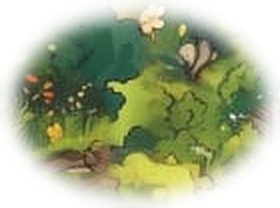
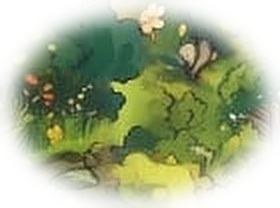
Trilha: corrige retângulos claros em volta dos bichos (luz isolada por camada), repara o fundo (cervo pintado e emendas), imagens de objetos com fallback

Changed region(s): [[0.0571, 0.375, 0.4, 0.9231], [0.3714, 0.375, 0.4, 0.4327], [0.8571, 0.5769, 0.8857, 0.6058]]

diff --git a/src/lib/trailGrade.ts b/src/lib/trailGrade.ts
@@ -26,7 +26,18 @@ const sizeOf = (img: Src) => ({
   h: (img as HTMLImageElement).naturalHeight || (img.height as number),
 });
 
-/** Devolve a imagem com o clima aplicado (ou a própria imagem, no sol). O resultado preserva a transparência. */
+const parseRgba = (css: string): [number, number, number, number] => {
+  const m = css.match(/rgba?\(\s*([\d.]+)\s*,\s*([\d.]+)\s*,\s*([\d.]+)\s*(?:,\s*([\d.]+))?\s*\)/);
+  return m ? [Number(m[1]), Number(m[2]), Number(m[3]), m[4] === undefined ? 1 : Number(m[4])] : [0, 0, 0, 0];
+};
+
+/**
+ * Devolve a imagem com o clima aplicado (ou a própria imagem, no sol).
+ *
+ * O ajuste é feito PIXEL A PIXEL e só nos canais de cor: o canal alfa (transparência) nunca é tocado.
+ * (Misturar com operações de composição do canvas deixava um retângulo esbranquiçado ao redor dos bichos e
+ * dos retalhos de folhagem, que têm fundo transparente.)
+ */
 export function gradeImage(img: Src, weather: TrailWeather): CanvasImageSource {
   const g = GRADES[weather];
   if (!g) return img;
@@ -34,34 +45,34 @@ export function gradeImage(img: Src, weather: TrailWeather): CanvasImageSource {
   const c = document.createElement("canvas");
   c.width = w;
   c.height = h;
-  const ctx = c.getContext("2d");
+  const ctx = c.getContext("2d", { willReadFrequently: true }) as CanvasRenderingContext2D | null;
   if (!ctx) return img;
   ctx.drawImage(img, 0, 0);
-  // dessatura
-  ctx.save();
-  ctx.globalCompositeOperation = "saturation";
-  ctx.globalAlpha = g.desaturate;
-  ctx.fillStyle = "hsl(0, 0%, 50%)";
-  ctx.fillRect(0, 0, w, h);
-  ctx.restore();
-  // restaura a transparência original (a mistura acima pintaria também as áreas vazias)
-  ctx.save();
-  ctx.globalCompositeOperation = "destination-in";
-  ctx.drawImage(img, 0, 0);
-  ctx.restore();
-  // brilho + névoa/geada, só onde há pixels
-  ctx.save();
-  ctx.globalCompositeOperation = "source-atop";
-  if (g.darken > 0) {
-    ctx.fillStyle = `rgba(0, 0, 0, ${g.darken})`;
-    ctx.fillRect(0, 0, w, h);
+  const data = ctx.getImageData(0, 0, w, h);
+  const px = data.data;
+  const [tr, tg, tb, ta] = parseRgba(g.tint);
+  const dark = 1 - g.darken;
+  for (let i = 0; i < px.length; i += 4) {
+    if (px[i + 3] === 0) continue;
+    let r = px[i];
+    let gg = px[i + 1];
+    let b = px[i + 2];
+    const gray = 0.299 * r + 0.587 * gg + 0.114 * b;
+    r += (gray - r) * g.desaturate;
+    gg += (gray - gg) * g.desaturate;
+    b += (gray - b) * g.desaturate;
+    r *= dark;
+    gg *= dark;
+    b *= dark;
+    if (g.lighten > 0) {
+      r += (255 - r) * g.lighten;
+      gg += (255 - gg) * g.lighten;
+      b += (255 - b) * g.lighten;
+    }
+    px[i] = r * (1 - ta) + tr * ta;
+    px[i + 1] = gg * (1 - ta) + tg * ta;
+    px[i + 2] = b * (1 - ta) + tb * ta;
   }
-  if (g.lighten > 0) {
-    ctx.fillStyle = `rgba(255, 255, 255, ${g.lighten})`;
-    ctx.fillRect(0, 0, w, h);
-  }
-  ctx.fillStyle = g.tint;
-  ctx.fillRect(0, 0, w, h);
-  ctx.restore();
+  ctx.putImageData(data, 0, 0);
   return c;
 }

diff --git a/src/lib/trailFaunaDraw.ts b/src/lib/trailFaunaDraw.ts
@@ -775,6 +775,9 @@ function applyEnvironmentalRimLighting(
   ctx.restore();
 }
 
+/** Camada transparente reutilizada para desenhar cada bicho isoladamente. */
+let critterLayer: HTMLCanvasElement | null = null;
+
 function drawCritter(ctx: CanvasRenderingContext2D, c: Critter, assets: FaunaAssets, weather: TrailWeather, t: number) {
   const sp = c.spec;
   const base = assets.sprites[sp.id];
@@ -897,6 +900,35 @@ function drawCritter(ctx: CanvasRenderingContext2D, c: Critter, assets: FaunaAss
     drawRealisticGroundShadow(ctx, c.x, c.y, w, h, lift, weather, facing);
   }
 
+  // O bicho é desenhado numa CAMADA TRANSPARENTE ISOLADA: assim a luz (luar, sol, umidade) só afeta os
+  // pixels do animal. Aplicada direto no mapa, a mistura "source-atop" pintaria um retângulo em volta dele.
+  const mainCtx = ctx;
+  let layerOut: { cv: HTMLCanvasElement; E: number } | null = null;
+  {
+    const M = mainCtx.getTransform();
+    const sc = Math.hypot(M.a, M.b) || 1;
+    const E = Math.max(h * 1.6, w * 1.5) + 34 + Math.max(0, lift);
+    const px = Math.ceil(2 * E * sc);
+    if (px >= 8 && px <= 1500 && typeof document !== "undefined") {
+      if (!critterLayer) critterLayer = document.createElement("canvas");
+      const lcv = critterLayer;
+      if (lcv.width < px || lcv.height < px) {
+        lcv.width = px;
+        lcv.height = px;
+      }
+      const lctx = lcv.getContext("2d");
+      if (lctx) {
+        lctx.setTransform(1, 0, 0, 1, 0, 0);
+        lctx.globalAlpha = 1;
+        lctx.globalCompositeOperation = "source-over";
+        lctx.clearRect(0, 0, lcv.width, lcv.height);
+        lctx.setTransform(sc, 0, 0, sc, (E - c.x) * sc, (E - c.y) * sc);
+        ctx = lctx;
+        layerOut = { cv: lcv, E };
+      }
+    }
+  }
+
   ctx.save();
   ctx.translate(c.x + jx, c.y - lift);
   // O corpo acompanha a inclinação suave do terreno
@@ -917,6 +949,12 @@ function drawCritter(ctx: CanvasRenderingContext2D, c: Critter, assets: FaunaAss
   // Aplica iluminação de borda e sombra ambiental para harmonizar o bicho com a mata
   applyEnvironmentalRimLighting(ctx, w, h, weather);
   ctx.restore();
+  if (layerOut) {
+    // leva a camada (com a luz já aplicada só no animal) para o mapa, em escala 1:1 com a tela
+    ctx = mainCtx;
+    const px = Math.ceil(2 * layerOut.E * (Math.hypot(mainCtx.getTransform().a, mainCtx.getTransform().b) || 1));
+    mainCtx.drawImage(layerOut.cv, 0, 0, px, px, c.x - layerOut.E, c.y - layerOut.E, 2 * layerOut.E, 2 * layerOut.E);
+  }
 
   // Integração com o solo: micro-vegetação cobrindo levemente a base das patas no chão
   if (sp.kind === "ground" && lift <= 2) {

diff --git a/src/components/CuriousTrailMountain.tsx b/src/components/CuriousTrailMountain.tsx
@@ -70,7 +70,10 @@ const clampN = (v: number, lo: number, hi: number) => Math.min(hi, Math.max(lo, 
 
 /** Exibe a ilustração do objeto durante a pergunta com enquadramento completo garantido. */
 function ObjectLens({ item, px, ring, full = false, language = "francais" }: { item: CestQuoiItem; px: number; ring?: string; full?: boolean; language?: AppLanguage }) {
-  // Margem generosa de enquadramento (75% da dimensão mínima para nunca cortar objetos grandes)
+  // Se a ilustração isolada falhar (arquivo ausente/erro de rede), cai para a cena completa em vez de mostrar o ícone de imagem quebrada.
+  const primary = getTrailObjectImageSrc(item, language);
+  const [failedSrc, setFailedSrc] = useState<string | null>(null);
+  const src = failedSrc === primary ? item.scene : primary;
   return (
     <svg
       viewBox={`0 0 ${item.w} ${item.h}`}
@@ -80,7 +83,8 @@ function ObjectLens({ item, px, ring, full = false, language = "francais" }: { i
       aria-hidden
     >
       <image
-        href={getTrailObjectImageSrc(item, language)}
+        href={src}
+        onError={() => setFailedSrc(primary)}
         x={0}
         y={0}
         width={item.w}
@@ -88,7 +92,7 @@ function ObjectLens({ item, px, ring, full = false, language = "francais" }: { i
         preserveAspectRatio="xMidYMid meet"
       />
       <g className="cq-sway">
-        <g transform="translate(600 720) rotate(-90) scale(0.55)">
+        <g transform={src === item.scene ? `translate(${item.arrow.x} ${item.arrow.y}) rotate(25) scale(0.55)` : "translate(600 720) rotate(-90) scale(0.55)"}>
           <path
             d="M-90 -10 L-40 -10 L-45 -25 L0 0 L-45 25 L-40 10 L-90 10 Z"
             fill="#ef4444"

diff --git a/src/lib/curiousTrailObjectImages.ts b/src/lib/curiousTrailObjectImages.ts
@@ -1,12 +1,16 @@
 import type { CestQuoiItem } from "@/lib/cquoiContent";
 import type { AppLanguage } from "@/lib/languageShared";
 import frenchVariants from "@/lib/trailObjectFrenchVariants.json";
+import isolatedIds from "@/lib/trailObjectIsolatedIds.json";
 
 export type TrailObjectImages = Map<string, HTMLImageElement>;
 const FRENCH_TRAIL_OBJECT_IDS = new Set(frenchVariants as string[]);
+/** Objetos que têm ilustração isolada em /ghibli/trail-objects (os demais usam a cena completa). */
+const ISOLATED_TRAIL_OBJECT_IDS = new Set(isolatedIds as string[]);
 
 export function getTrailObjectImageSrc(item: CestQuoiItem, language: AppLanguage = "francais"): string {
-  if (!/^[a-z0-9-]+$/.test(item.id)) return item.scene;
+  // Sem ilustração isolada para este objeto: usa a cena completa (com a seta), em vez de um endereço que não existe.
+  if (!/^[a-z0-9-]+$/.test(item.id) || !ISOLATED_TRAIL_OBJECT_IDS.has(item.id)) return item.scene;
   if (language === "francais" && FRENCH_TRAIL_OBJECT_IDS.has(item.id)) {
     return `/ghibli/fr/trail-objects/${item.id}.svg`;
   }
